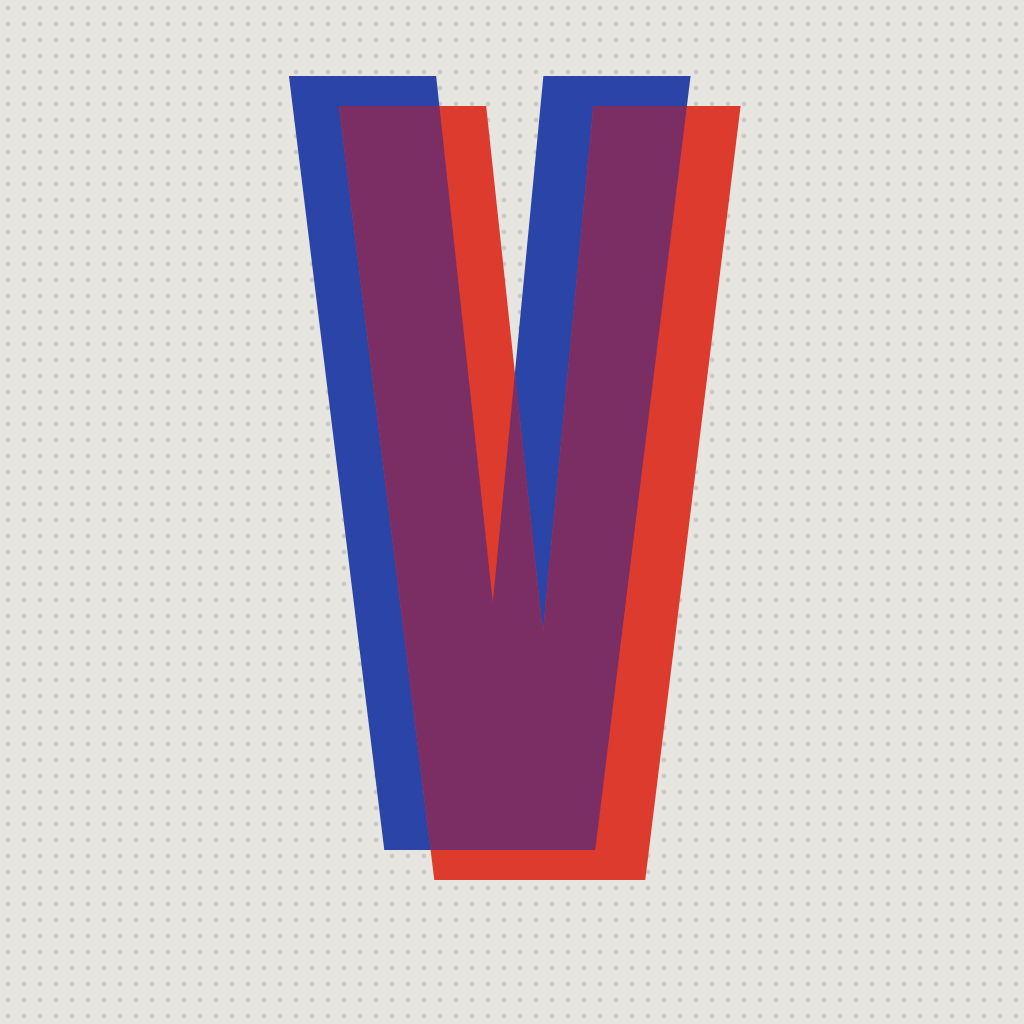
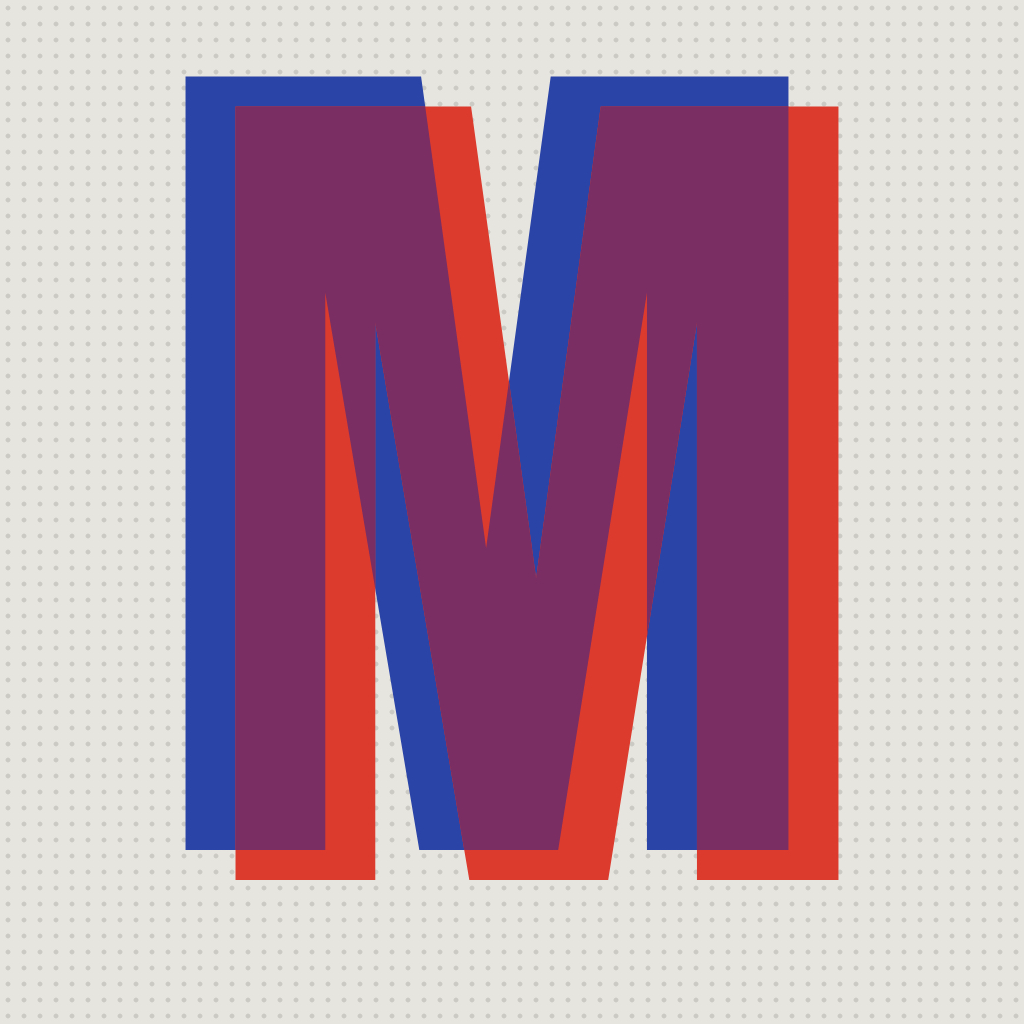
Vibetrip devient Moodtrip
Nom, icône (le V devient un M, même geste d'impression), adresse du site
(moodtrip-schuft.vercel.app, l'ancienne reste active), identifiant iOS
fr.moodtrip.app, projet EAS @juju31840/moodtrip. Les clés de stockage
internes gardent leur nom : les renommer effacerait les données des testeurs.

diff --git a/app/confidentialite/page.tsx b/app/confidentialite/page.tsx
@@ -1,8 +1,8 @@
 import type { Metadata } from "next";
 
 export const metadata: Metadata = {
-  title: "Confidentialité · VibeTrip",
-  description: "Ce que VibeTrip fait de tes données — et surtout ce qu'il n'en fait pas.",
+  title: "Confidentialité · Moodtrip",
+  description: "Ce que Moodtrip fait de tes données — et surtout ce qu'il n'en fait pas.",
 };
 
 /**
@@ -31,7 +31,7 @@ export default function Confidentialite() {
     <main className="grain mx-auto flex min-h-[100dvh] max-w-2xl flex-col gap-8 px-5 pb-16 pt-[max(2.5rem,env(safe-area-inset-top))]">
       <header className="flex flex-col gap-3">
         <a href="/" className="text-[11px] font-extrabold uppercase tracking-[0.1em] text-ink-mute underline">
-          VibeTrip
+          Moodtrip
         </a>
         <h1 className="font-display text-[44px] uppercase leading-[1.04]">Confidentialité</h1>
         <p className="text-[17px] leading-snug text-ink">
@@ -113,7 +113,7 @@ export default function Confidentialite() {
         <p>Ces services reçoivent ce qui leur est nécessaire pour répondre (par exemple une coordonnée), jamais ton profil.</p>
       </Section>
 
-      <Section title="Ce que VibeTrip ne fait pas">
+      <Section title="Ce que Moodtrip ne fait pas">
         <p>
           Aucune publicité, aucun traceur publicitaire, aucune revente ni partage de données à des fins commerciales, aucun
           suivi d&apos;une application à l&apos;autre.

diff --git a/docs/design/mockup.html b/docs/design/mockup.html
@@ -3,7 +3,7 @@
 <head>
 <meta charset="UTF-8" />
 <meta name="viewport" content="width=device-width, initial-scale=1" />
-<title>VibeTrip — Maquette design (statique)</title>
+<title>Moodtrip — Maquette design (statique)</title>
 <style>
   :root {
     --background: #0B0B12;
@@ -489,7 +489,7 @@
 <body>
 
   <div class="page-header">
-    <h1>VibeTrip — Maquette design statique</h1>
+    <h1>Moodtrip — Maquette design statique</h1>
     <p>Démo visuelle hors-application — données factices. 390px, mobile-first.</p>
   </div>
 
@@ -505,7 +505,7 @@
     <!-- ===================== SCREEN 1 : ACCUEIL ===================== -->
     <section id="screen-home" class="screen is-active">
       <div class="home-header">
-        <h2>VibeTrip</h2>
+        <h2>Moodtrip</h2>
         <p>Règle ta vibe, choisis un mode, laisse l'IA construire l'itinéraire.</p>
       </div>
 

diff --git a/lib/prompt.ts b/lib/prompt.ts
@@ -100,7 +100,7 @@ function describeLocation(location: GenerateItineraryRequest["location"]): strin
 
 export function buildSystemPrompt(angle: string): string {
   return [
-    "Tu es un générateur d'itinéraires de voyage/sortie pour l'application VibeTrip.",
+    "Tu es un générateur d'itinéraires de voyage/sortie pour l'application Moodtrip.",
     "Tu dois répondre UNIQUEMENT avec un objet JSON conforme au schéma structuré fourni, sans texte additionnel.",
     `Angle imposé pour cet itinéraire : ${angle}`,
     "Le champ summary tient en une phrase courte et dit ce qui caractérise cet itinéraire, dans l'esprit de l'angle demandé. N'y répète jamais le nom de la ville ni le tripName, et il est soumis à la même interdiction de vocabulaire que les descriptions.",

diff --git a/components/CoverScreen.tsx b/components/CoverScreen.tsx
@@ -124,8 +124,8 @@ export function CoverScreen({ onStart }: CoverScreenProps) {
           Encre : noir plein, pas vermillon. La règle du système réserve le vermillon à l'action
           et à la sélection ; l'accoler au nom diluerait le seul repère qui doit rester univoque. */}
       <div className="shrink-0">
-        <h1 className="font-display text-[min(26vw,13dvh,7rem)] uppercase leading-[0.92] tracking-[-0.02em] text-ink">
-          Vibetrip
+        <h1 className="font-display text-[min(22vw,13dvh,7rem)] uppercase leading-[0.92] tracking-[-0.02em] text-ink">
+          Moodtrip
         </h1>
         <p className="mt-[clamp(0.25rem,0.8dvh,0.6rem)] text-title uppercase tracking-[0.01em] text-ink-soft">
           On sort où&nbsp;?

diff --git a/mobile/src/app/sortie/[id].tsx b/mobile/src/app/sortie/[id].tsx
@@ -62,7 +62,7 @@ export default function SortieScreen() {
       const query = encodeURIComponent([step.placeName, step.address].filter(Boolean).join(", "));
       return `${index + 1}. ${step.placeName}${step.address ? ` — ${step.address}` : ""}\nhttps://maps.apple.com/?q=${query}&ll=${step.location.lat},${step.location.lng}`;
     });
-    void Share.share({ message: [`${itinerary.tripName} — composé avec VibeTrip`, "", ...lines].join("\n") });
+    void Share.share({ message: [`${itinerary.tripName} — composé avec Moodtrip`, "", ...lines].join("\n") });
   }
 
   function remove() {

diff --git a/mobile/src/ui/cover.tsx b/mobile/src/ui/cover.tsx
@@ -25,7 +25,7 @@ export function Cover({ onStart }: { onStart: () => void }) {
       {/* Interlignage large : sur iPhone, Anton dépasse de sa boîte au-dessus des capitales, et le
           titre sortait coupé en haut avec l'interlignage serré du site (retour du 26/09/2026). */}
       <Text style={[styles.title, { fontSize: titleSize, lineHeight: Math.round(titleSize * 1.28) }]} adjustsFontSizeToFit numberOfLines={1}>
-        Vibetrip
+        Moodtrip
       </Text>
       <Text style={styles.question}>On sort où ?</Text>
       <View style={styles.band}>

diff --git a/mobile/src/lib/api.ts b/mobile/src/lib/api.ts
@@ -8,7 +8,7 @@ import type { GenerateItineraryRequest, GenerationEvent } from "@/types/itinerar
  * toute la chaîne de fiabilité (socle de lieux, curation, vérification). Rien de ce pipeline
  * n'est dupliqué côté téléphone.
  */
-export const API_BASE = process.env.EXPO_PUBLIC_API_BASE ?? "https://vibetrip-schuft.vercel.app";
+export const API_BASE = process.env.EXPO_PUBLIC_API_BASE ?? "https://moodtrip-schuft.vercel.app";
 
 const CLIENT_KEY = "vibetrip.client.v1";
 

diff --git a/tailwind.config.ts b/tailwind.config.ts
@@ -1,7 +1,7 @@
 import type { Config } from "tailwindcss";
 
 /**
- * Design system VibeTrip — direction « Riso » (affiche sérigraphiée, deux encres).
+ * Design system Moodtrip — direction « Riso » (affiche sérigraphiée, deux encres).
  *
  * Remplace la direction « Carnet » (crème chaud + terracotta + serif), abandonnée pour une raison
  * précise et vérifiable : cette palette était, à quelques points près, celle de Claude

diff --git a/mobile/src/app/(tabs)/profil.tsx b/mobile/src/app/(tabs)/profil.tsx
@@ -18,7 +18,7 @@ import { Paper } from "@/ui/paper";
 import { colors, fonts, rule } from "@/ui/theme";
 
 /** Exigée par l'App Store, et accessible depuis l'app, pas seulement depuis la fiche. */
-const PRIVACY_URL = "https://vibetrip-schuft.vercel.app/confidentialite";
+const PRIVACY_URL = "https://moodtrip-schuft.vercel.app/confidentialite";
 
 /**
  * Profil — trois registres, comme sur le site (29/08/2026) :

diff --git a/mobile/src/app/(tabs)/index.tsx b/mobile/src/app/(tabs)/index.tsx
@@ -100,7 +100,7 @@ export default function CreerScreen() {
         keyboardShouldPersistTaps="handled"
         contentContainerStyle={{ paddingTop: insets.top + 12, paddingHorizontal: 20, paddingBottom: insets.bottom + TAB_BAR + 110, gap: 20 }}
       >
-        <Masthead title="Vibetrip" />
+        <Masthead title="Moodtrip" />
 
         <View style={{ gap: 8 }}>
           <Overline>Quand</Overline>

diff --git a/app/layout.tsx b/app/layout.tsx
@@ -17,7 +17,7 @@ const body = Archivo({
 });
 
 export const metadata: Metadata = {
-  title: "VibeTrip",
+  title: "Moodtrip",
   description: "Ton budget, ton humeur, ta distance. On s'occupe du programme.",
   // `app/icon.svg` est repris automatiquement par Next ; le déclarer ici sert l'écran d'accueil
   // iOS, qui ignore le SVG et prenait jusqu'ici un rendu par défaut du navigateur.

diff --git a/components/HomeScreen.tsx b/components/HomeScreen.tsx
@@ -118,7 +118,7 @@ export function HomeScreen({
       <div className="flex flex-1 flex-col gap-6 overflow-y-auto px-6 pb-6 pt-10">
       <div className="flex items-end justify-between border-b-3 border-ink pb-2">
         <h1 className="font-display text-[2.6rem] uppercase leading-[0.85] tracking-[-0.015em] text-ink">
-          Vibetrip
+          Moodtrip
         </h1>
       </div>
 
